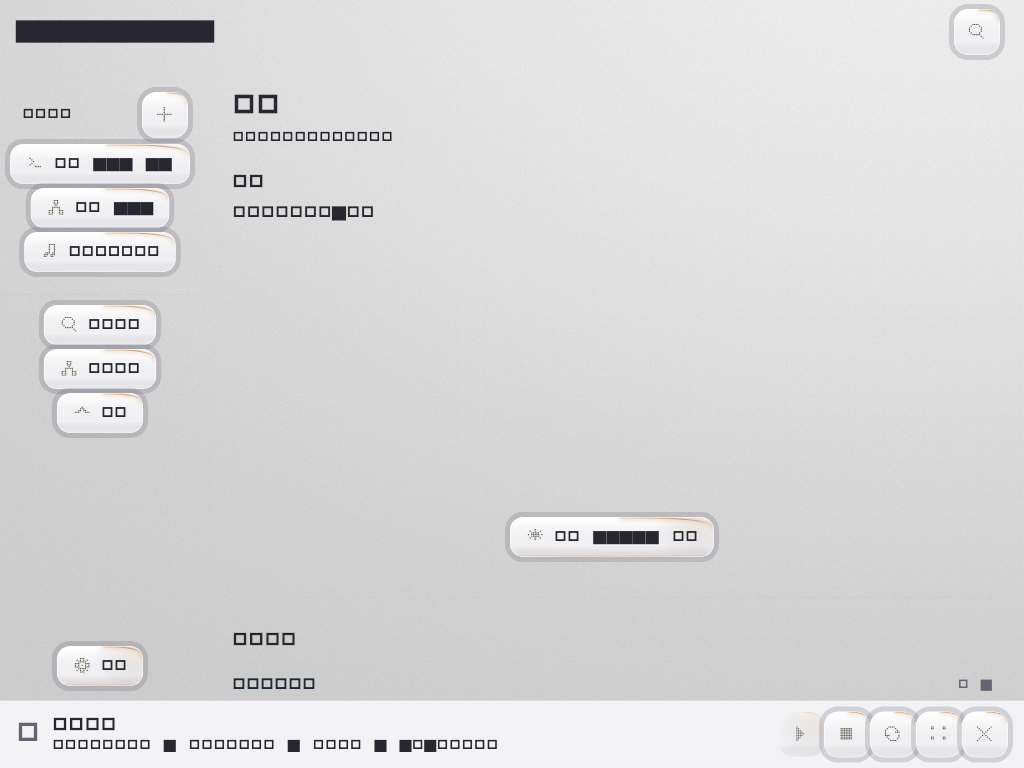
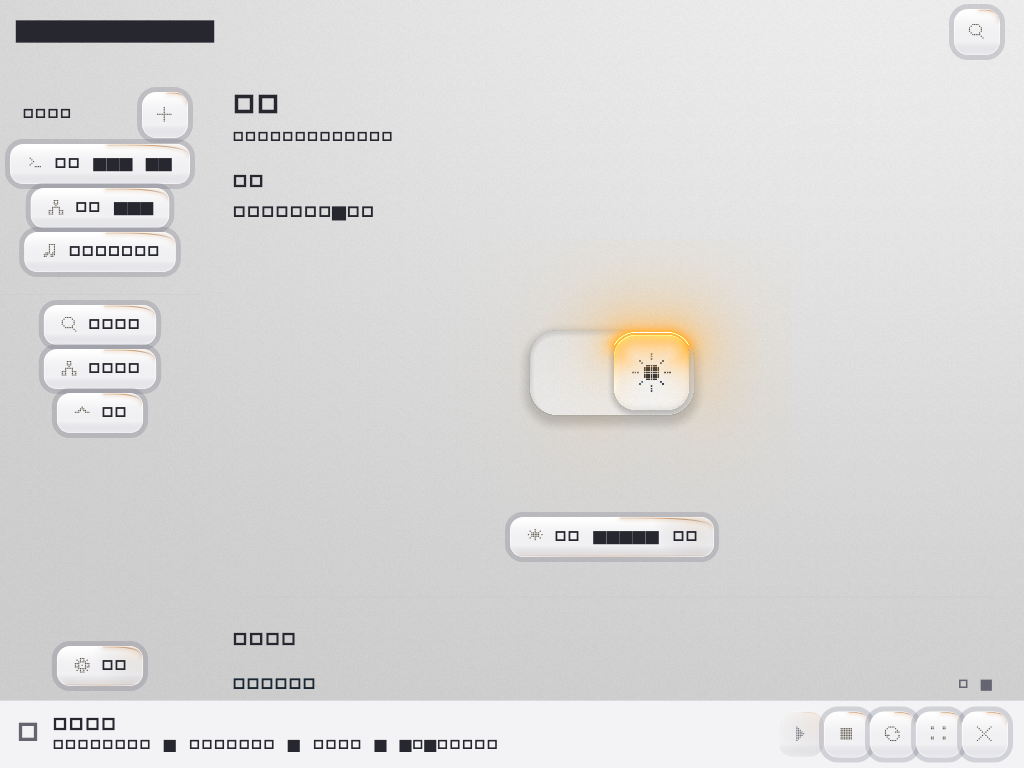
修复短列表布局并稳定 UI 金样

Changed region(s): [[0.5, 0.375, 0.7188, 0.5625]]

diff --git a/app/lib/features/connections/connections_page.dart b/app/lib/features/connections/connections_page.dart
@@ -36,6 +36,8 @@ class ConnectionsPage extends StatefulWidget {
 }
 
 class ConnectionsPageState extends State<ConnectionsPage> {
+  static const _lazyListThreshold = 40;
+
   late Future<List<Connection>> pending;
   List<Capability> catalog = [];
   String? selectedId;
@@ -383,7 +385,7 @@ class ConnectionsPageState extends State<ConnectionsPage> {
           ),
           const SizedBox(height: 8),
           if (capabilities.isEmpty) const Text('当前没有可用功能。刷新连接后重试。'),
-          if (capabilities.isNotEmpty)
+          if (capabilities.length >= _lazyListThreshold)
             SizedBox(
               key: const Key('managed-capability-list'),
               height: _capabilityListHeight(context),
@@ -403,6 +405,17 @@ class ConnectionsPageState extends State<ConnectionsPage> {
                 separatorBuilder: (context, index) => const Divider(height: 1),
               ),
             ),
+          if (capabilities.isNotEmpty &&
+              capabilities.length < _lazyListThreshold)
+            for (final capability in capabilities) ...[
+              CapabilityRow(
+                key: ValueKey('managed-capability-${capability.id.key}'),
+                capability: capability,
+                source: connection.label,
+                onOpen: () => widget.onOpen(capability),
+              ),
+              const Divider(height: 1),
+            ],
           if (!widget.runtime.isPreview) ...[
             const SizedBox(height: 20),
             Wrap(
@@ -452,66 +465,84 @@ class ConnectionsPageState extends State<ConnectionsPage> {
     BuildContext context,
     List<Connection> connections,
     Connection? selected,
-  ) => SizedBox(
-    key: const Key('managed-connection-list'),
-    height: _connectionListHeight(context),
-    child: ListView.separated(
-      primary: false,
-      padding: EdgeInsets.zero,
-      itemCount: connections.length,
-      itemBuilder: (context, index) {
-        final connection = connections[index];
-        final row = _usesGlassButtons(context)
-            ? AggregateActionButton(
-                label: connection.label,
-                description: _kind(connection.kind),
-                source: widget.runtime.isPreview
-                    ? '预览'
-                    : _status(connection.status),
-                semanticsLabel:
-                    '${connection.label}，${_kind(connection.kind)}，'
-                    '${widget.runtime.isPreview ? '预览' : _status(connection.status)}',
-                icon: switch (connection.kind) {
-                  ConnectionKind.cli => Icons.terminal_outlined,
-                  ConnectionKind.mcpStdio ||
-                  ConnectionKind.mcpHttp => Icons.hub_outlined,
-                },
-                style: AggregateActionStyle.quiet,
-                onPressed: () =>
-                    setState(() => selectedId = connection.id.value),
-                selected: selected?.id.value == connection.id.value,
-                expand: true,
-              )
-            : ListTile(
-                contentPadding: const EdgeInsets.symmetric(horizontal: 8),
-                selected: selected?.id.value == connection.id.value,
-                title: Tooltip(
-                  message: connection.label,
-                  child: Text(
-                    connection.label,
-                    maxLines: 1,
-                    overflow: TextOverflow.ellipsis,
-                  ),
-                ),
-                subtitle: Text(_kind(connection.kind)),
-                trailing: Text(
-                  widget.runtime.isPreview ? '预览' : _status(connection.status),
-                  style: TextStyle(
-                    color: connection.status == ConnectionStatus.unavailable
-                        ? Theme.of(context).colorScheme.error
-                        : Theme.of(context).colorScheme.onSurfaceVariant,
-                  ),
-                ),
-                onTap: () => setState(() => selectedId = connection.id.value),
-              );
-        return KeyedSubtree(
-          key: ValueKey('managed-connection-${connection.id.value}'),
-          child: row,
-        );
-      },
-      separatorBuilder: (context, index) => const Divider(height: 1),
-    ),
-  );
+  ) {
+    if (connections.length < _lazyListThreshold) {
+      return Column(
+        children: [
+          for (final connection in connections) ...[
+            _connectionRow(context, connection, selected),
+            const Divider(height: 1),
+          ],
+        ],
+      );
+    }
+
+    return SizedBox(
+      key: const Key('managed-connection-list'),
+      height: _connectionListHeight(context),
+      child: ListView.separated(
+        primary: false,
+        padding: EdgeInsets.zero,
+        itemCount: connections.length,
+        itemBuilder: (context, index) =>
+            _connectionRow(context, connections[index], selected),
+        separatorBuilder: (context, index) => const Divider(height: 1),
+      ),
+    );
+  }
+
+  Widget _connectionRow(
+    BuildContext context,
+    Connection connection,
+    Connection? selected,
+  ) {
+    final row = _usesGlassButtons(context)
+        ? AggregateActionButton(
+            label: connection.label,
+            description: _kind(connection.kind),
+            source: widget.runtime.isPreview
+                ? '预览'
+                : _status(connection.status),
+            semanticsLabel:
+                '${connection.label}，${_kind(connection.kind)}，'
+                '${widget.runtime.isPreview ? '预览' : _status(connection.status)}',
+            icon: switch (connection.kind) {
+              ConnectionKind.cli => Icons.terminal_outlined,
+              ConnectionKind.mcpStdio ||
+              ConnectionKind.mcpHttp => Icons.hub_outlined,
+            },
+            style: AggregateActionStyle.quiet,
+            onPressed: () => setState(() => selectedId = connection.id.value),
+            selected: selected?.id.value == connection.id.value,
+            expand: true,
+          )
+        : ListTile(
+            contentPadding: const EdgeInsets.symmetric(horizontal: 8),
+            selected: selected?.id.value == connection.id.value,
+            title: Tooltip(
+              message: connection.label,
+              child: Text(
+                connection.label,
+                maxLines: 1,
+                overflow: TextOverflow.ellipsis,
+              ),
+            ),
+            subtitle: Text(_kind(connection.kind)),
+            trailing: Text(
+              widget.runtime.isPreview ? '预览' : _status(connection.status),
+              style: TextStyle(
+                color: connection.status == ConnectionStatus.unavailable
+                    ? Theme.of(context).colorScheme.error
+                    : Theme.of(context).colorScheme.onSurfaceVariant,
+              ),
+            ),
+            onTap: () => setState(() => selectedId = connection.id.value),
+          );
+    return KeyedSubtree(
+      key: ValueKey('managed-connection-${connection.id.value}'),
+      child: row,
+    );
+  }
 
   double _connectionListHeight(BuildContext context) =>
       math.min(520.0, math.max(240.0, MediaQuery.sizeOf(context).height - 300));

diff --git a/app/test/connections_page_lazy_test.dart b/app/test/connections_page_lazy_test.dart
@@ -65,6 +65,29 @@ void main() {
     expect(tester.takeException(), isNull);
   }, variant: _macOS);
 
+  testWidgets('short connection and capability lists keep natural height', (
+    tester,
+  ) async {
+    tester.view.physicalSize = const Size(1024, 768);
+    tester.view.devicePixelRatio = 1;
+    addTearDown(tester.view.resetPhysicalSize);
+    addTearDown(tester.view.resetDevicePixelRatio);
+    final runtime = _runtime(
+      connections: const [_connection0],
+      capabilities: _capabilities(1),
+    );
+    addTearDown(runtime.dispose);
+
+    await tester.pumpWidget(_page(runtime));
+    await tester.pumpAndSettle();
+
+    expect(find.byKey(const Key('managed-connection-list')), findsNothing);
+    expect(find.byKey(const Key('managed-capability-list')), findsNothing);
+    expect(find.byKey(_connectionKey(0)), findsOneWidget);
+    expect(find.byKey(_capabilityKey(0)), findsOneWidget);
+    expect(tester.takeException(), isNull);
+  }, variant: _macOS);
+
   testWidgets('connection details build long capability lists lazily', (
     tester,
   ) async {

diff --git a/app/tool/ui_review_test.dart b/app/tool/ui_review_test.dart
@@ -1,5 +1,6 @@
 import 'package:aggregate/app/aggregate_app.dart';
 import 'package:aggregate/preview/preview_runtime_factory.dart';
+import 'package:aggregate/features/settings/glass_theme_switch.dart';
 import 'package:aggregate/widgets/capability_row.dart';
 import 'package:aggregate/widgets/glass/glass_motion.dart';
 import 'package:flutter/foundation.dart';
@@ -8,6 +9,8 @@ import 'package:flutter_test/flutter_test.dart';
 
 void main() {
   const boundaryKey = Key('ui-review-boundary');
+  TestWidgetsFlutterBinding.ensureInitialized();
+  setUpAll(ThemeSwitchArtwork.loadProgram);
 
   Future<void> capture(
     WidgetTester tester,

diff --git a/docs/macos-glass-ui/acceptance-record.md b/docs/macos-glass-ui/acceptance-record.md
@@ -138,7 +138,7 @@ flutter test --no-pub test/glass_theme_switch_test.dart test/theme_switch_simula
 | 项目 | UI-5.1～UI-5.8 |
 | 结果 | 自动化、键盘、语义、参数保护、reduced motion、放大文字与两种 DPR 的页面布局回归通过。主题开关焦点边框现由 Widget 回归确认绘制在 artwork 前景。UI-5.7 的系统 VoiceOver 语音走查未完成；不以自动化结果代替这些证据。 |
 | 环境 | MacBook Pro，Apple M5 Pro，24 GB；macOS 27.2；Flutter 3.47.8 stable、Dart 3.13.7；Xcode 27.2；内置 Liquid Retina XDR，逻辑 1512×982 点、60 Hz、DPR 2。App 自动化运行于 Flutter test；原生 AX 树抽查使用 Profile `Aggregate.app`。 |
-| 页面矩阵 | `app/tool/ui_review_test.dart` 固定 `ManualGlassMotionClock`，以 `FakeAccessibilityFeatures(disableAnimations: true)` 固定装饰相位但保留路由动画。800×600、1024×768、1440×900 × 浅/深 × DPR 1/2 × 9 个音乐/连接/设置/目录/运行预览状态；DPR 1 用 `work/ui-review/` 的 54 张金样比对，DPR 2 同样走完整路由和布局错误检查。12 项通过。图像使用测试字体，中文字符可能呈方框，仅用于结构与路由回归；不能作为中文字体验收。原生 Profile 窗口已目视确认中文可读，但 CUA 截图未导出归档。 |
+| 页面矩阵 | `app/tool/ui_review_test.dart` 固定 `ManualGlassMotionClock`，以 `FakeAccessibilityFeatures(disableAnimations: true)` 固定装饰相位但保留路由动画；在 `setUpAll` 预加载主题开关 shader，使六个测试用例共享已完成的加载 Future，不在各自的异步测试区内等待。800×600、1024×768、1440×900 × 浅/深 × DPR 1/2 × 9 个音乐/连接/设置/目录/运行预览状态；DPR 1 用 `work/ui-review/` 的 54 张金样比对，DPR 2 同样走完整路由和布局错误检查。12 项通过。2026-11-17 按实际 shader 渲染更新了 5 张设置页金样；第六张 800×600 浅色设置金样本次已与稳定截图一致，无需改动。逐张检查六种设置页尺寸/主题后，主题控件均正常显示。图像使用测试字体，中文字符可能呈方框，仅用于结构与路由回归；不能作为中文字体验收。原生 Profile 窗口已目视确认中文可读，但 CUA 截图未导出归档。 |
 | 组件覆盖 | `glass_action_button_test.dart` 检查所有点阵在浅/深主题和 DPR 1/2 的绘制、200% 文字操作、Enter 激活、Tab/Shift-Tab 顺序和回调次数。完整 UI-2 glyph golden 仍在原阶段验证；UI-5 的整页面金样没有 DPR 2。`accessibility_test.dart` 以 token 组合覆盖浅深材质端点的文字/图形目标；不含 shader 像素读回。 |
 | 键盘与安全 | `widget_test.dart`、`capability_run_page_test.dart`、`glass_action_button_test.dart` 验证 ⌘K 搜索焦点、⌘↵打开确认但不执行背景任务、显式确认一次、Esc 取消并恢复输入焦点、Enter 激活一次及 Tab 顺序；相关断言通过。 |
 | 原生语义 | Profile 原生 AX 树确认设置主题按钮值、搜索入口、导航项、音乐控制、清空操作和 Mac Host 控件的可读名称/状态。未启用系统 VoiceOver，也未听取或记录 VoiceOver 实际朗读顺序。 |
@@ -156,7 +156,7 @@ flutter test --no-pub test/glass_theme_switch_test.dart test/theme_switch_simula
 | 结果 | 已测的浅/深色静置、刷新/复制/添加、播放控制和 800/1024/1440/1512 logical px 固定宽度滚动交互子场景，各自三轮活动窗的 build/raster P95 均低于 16.667 ms，超预算比例低于 1%。本轮修复页面栈在窗口尺寸变化时被重复创建的问题；24 个 CLI 样本连接下，800↔1440 logical px 原生连续缩放完成三轮，build/raster P95 均低于 13.9/9.9 ms，超预算比例均低于 0.3%。宽度场景未见 >100 ms build/raster 帧；一次隐藏恢复样本出现 102.132 ms raster，重复轮为 24.851 ms。主题开关在 1024 宽另完成三轮、每轮 18 次深浅端点往返拖动，AX 值逐次交替且帧时达标；UI-0 同机端点点击基线也完成三轮，帧时数据已对照。另完成 20 轮页面往返与 RSS 时间序列。本轮新增活动页惰性列表，并完成工作台、连接、活动、设置四页与连续窗口缩放联合负载三轮；build/raster 帧时均达门槛。随后对七个长列表/表单场景各做三轮 Profile 滚动，六类场景无 >100 ms 帧；90 字段表单首组三轮中一轮出现 112.742 ms build 峰值，三轮补充滚动未复现，仍作为未定位的间歇性异常保留，未标通过。原生拖动取消对照、生命周期对象审计及动态关键帧对照仍待完成；生产页面双主题静态截图已由代理按本轮范围自验，但未逐项检查全部产品按钮实例和动态状态，因此 UI-6 保持部分验收。 |
 | 环境 | MacBook Pro Apple M5 Pro、24 GB；macOS 27.2；Flutter 3.47.8 stable、Dart 3.13.7、Xcode 27.2；内置 Liquid Retina XDR，1512×982 logical px、60 Hz、DPR 2。既有窗口样本为 800 与 1512 logical px；本轮另测 1024×632 和 1440×632 logical px 固定窗口。1440 宽实际 NSWindow frame 由临时原生诊断日志确认；诊断代码已恢复，未保留在提交中。 |
 | 运行方式 | 临时 `lib/ui6_profile_main.dart` 启动生产 `AggregateApp`，运行时由 `Ui6ProfileRuntime` 返回合成数据：24 个 CLI 连接、1 个 MCP 连接、1 个本地音乐样本连接、90 个 CLI 能力、60 个 MCP 工具、2 个音乐能力和 60 条活动记录；不启动外部进程、不访问网络、不触达真实连接、账号或 Host。窗口扫宽使用临时 Runner frame 注入，测试后恢复 `MainFlutterWindow.swift`；临时入口、Runtime 和原生诊断均未提交。 |
-| 回归检查 | 首轮活动页/工作台子阶段全量 `flutter test --no-pub` 274 项通过；2026-11-15 后续连接首页与管理连接惰性列表变更后全量 279 项通过，音乐搜索长列表加入后 281 项通过，运行参数表单加入后 282 项通过；主题 450 ms 实时指针及取消恢复用例后全量 284 项通过；焦点环前景层回归后全量 285 项通过，`flutter analyze --no-pub` 无问题。活动页惰性构建回归曾在旧实现上失败（屏外第 60 条已构建），改后通过；连接首页 90 项桌面/紧凑目录、管理连接页 90 个连接/能力的桌面/紧凑滚动回归均通过；音乐搜索 90 首桌面/紧凑宽度滚动和对应播放回调、原有短结果无障碍语义回归均通过；参数表单 90 字段回归覆盖屏外必填校验、滚动后行内提示和最终参数值。主题焦点测试将 `FocusManager` 固定为传统键盘焦点模式，确认焦点边框存在并置于绘制前景；未采集更新后的原生焦点图像。Widget 回归仅证明构建边界、行为和可达性；新增长列表场景的帧时见下方原生 Profile 记录。 |
+| 回归检查 | 首轮活动页/工作台子阶段全量 `flutter test --no-pub` 274 项通过；2026-11-15 后续连接首页与管理连接惰性列表变更后全量 279 项通过，音乐搜索长列表加入后 281 项通过，运行参数表单加入后 282 项通过；主题 450 ms 实时指针及取消恢复用例后全量 284 项通过；焦点环前景层回归后全量 285 项通过。2026-11-17 修复管理连接短列表布局及 UI review shader 预载后，全量 `flutter test --no-pub test` 289 项通过，`flutter test --no-pub tool/ui_review_test.dart` 12 项通过，`flutter test --no-pub test/connections_page_lazy_test.dart` 4 项通过，`flutter analyze --no-pub` 无问题。活动页惰性构建回归曾在旧实现上失败（屏外第 60 条已构建），改后通过；连接首页 90 项桌面/紧凑目录、管理连接页 90 个连接/能力的桌面/紧凑滚动回归均通过；2026-11-17 新增 1 个连接/1 个能力的自然高度回归，原有 90 项懒构建仍通过；音乐搜索 90 首桌面/紧凑宽度滚动和对应播放回调、原有短结果无障碍语义回归均通过；参数表单 90 字段回归覆盖屏外必填校验、滚动后行内提示和最终参数值。主题焦点测试将 `FocusManager` 固定为传统键盘焦点模式，确认焦点边框存在并置于绘制前景；未采集更新后的原生焦点图像。Widget 回归仅证明构建边界、行为和可达性；新增长列表场景的帧时见下方原生 Profile 记录。 |
 | 采样 | `app/tool/sample_theme_switch_frames.cjs` 监听既有 Mac Profile VM `Flutter.Frame` 事件；没有更改 Profile flags。帧时轮次录 40 秒，按首帧后的 5–35 秒选取 30 秒活动窗。1024/1440 结果逐轮列于下方；1440 滚动第三轮在 29.783 秒活动窗内记录 932 帧，其他宽度滚动轮次约 1,795–1,800 帧；主题拖动三轮均为 1,800 帧。隐藏恢复轮次记录约 12.9 秒无帧空档。七类长列表/表单在临时 worktree（被测源码基线 `7d28c476ec4094784c39053c303c0abe7d29bb8b`）的 Profile `PreviewRuntime` 夹具中另采三轮：每轮录 40 秒、首帧后 5–35 秒活动窗，主动滚动约 30 秒；其中参数表单一轮只有 1,502 个活动窗帧，另两轮各 1,800。夹具用本地合成数据，不接服务；原始 JSON 保存在本机 `/tmp/aggregate-ui6-schema-profile/`（权限 0600，不随提交）。JSON `protocolErrors=0` 且未断连。指标是 Flutter build/raster 提交帧，不等于显示器实际呈现 FPS；临时 VM URI 不归档。 |
 | 负载 | 静置样本覆盖完整工作台的 12 类按钮及浅/深色，各三轮。浅色刷新、复制、添加分别三轮。播放/暂停、上一首/下一首、停止与切页循环三轮，每轮约 31.6–31.8 秒、5 组循环/31 次按钮动作，以本地 Preview 数据运行。原有滚动/缩放三轮在 800↔1512 logical px 之间操作；本轮另以 1024、1440 固定窗口各做三轮、约 30 秒目录长列表往返滚动，穿插设置/管理连接/活动/音乐页切换。另以独立 Profile 夹具分别滚动工作台 92 项、连接首页单连接 91 项能力、管理连接 90 个连接、管理连接明细 91 项能力、活动 60 条、音乐结果 90 首和运行参数表单 90 字段。原有 800 宽主题端点切换三轮各 26 次；1024 宽另做三轮每轮 18 次端点往返拖动，AX 深浅状态逐次交替，当时未能通过 CUA 控制精确手势时长，也未执行拖动取消。2026-11-15 以只读 CGEvent tap 实测：`agent-desktop --duration 450` 两向移动跨度为 524.0/517.9 ms；`--duration 397` 六次交替拖动（每向三次）跨度 455.4–466.1 ms、均值 460.8 ms，且六次 AX 端点逐次符合预期。原生取消仍未执行。修复后联合负载每轮在 800↔1440 logical px 扫宽时往返滚动工作台、管理连接、活动、设置四页 40–44 个 down/up scroll pair；每页每轮至少两次 AX 路由校验。 |
 | 活动窗统计 | 以下 build/raster 数值单位均为 ms，格式为 P50/P95/P99/max；“超预算帧”按任一线程 >16.667 ms 计数。每轮分别统计，未以长 idle 稀释 30 秒活动窗。 |
@@ -327,3 +327,11 @@ UI-0～UI-5 已按阶段独立提交；未通过的对比度与 VoiceOver 项仍
 - 覆盖：按钮 reduced-motion 点击可用性、完全离屏后共享时钟注销、`TickerMode` 与应用生命周期暂停/恢复、按钮 200% 文字/键盘操作，以及切换 450 ms 实时拖动释放提交、反向拖动和 pointer cancel 恢复端点；实时模型另覆盖 20/30/60/120 Hz 与长隐藏间隔。
 - 证据范围：这是 Flutter test 下的组件/模型回归，不是原生 macOS 窗口验收。它不证明 AppKit 离屏/减少动态效果集成、原生 `PointerCancelEvent`、屏幕捕获相位、显示器实际呈现帧率或 VoiceOver 语音；UI-6.4、UI-6.8 与最终签收仍为部分验收。
 - 自检：四个测试文件完整运行并显示 `All tests passed!`；本轮没有启动、聚焦或注入输入到应用窗口，没有修改主题切换生产逻辑。当前工作树其他未提交项（`docs/android-a3-runtime-research.md`、`docs/android-a4-npm-install-research.md`、`docs/android-adaptation-plan.md`、`pubspec.lock`）不属于本次改动，保留原样。
+
+### 2026-11-17 UI review 稳定性与短列表布局回归
+
+- 根因：连接页 UI 金样最初在单个预览能力时出现大面积差异。`connections_page.dart` 为 1 项内容预留了有界列表高度，空白向下挤压设置/详情内容；将单连接/单能力降到自然高度后，单项显示恢复，40 项以上仍用有界惰性列表。
+- 金样稳定性：设置截图有时在 `ThemeSwitchArtwork` 的 fragment shader 加载完成前捕获，太阳/月亮缺失，随后测试又呈现完整光效。测试套件改为 `setUpAll` 预加载 shader，避免在每个 `testWidgets` 的异步测试区等待同一个 Future；第二个尺寸/主题用例不再卡住。按稳定渲染重录 5 张设置页金样，另外 1 张浅色 800×600 金样与稳定截图一致。六张 PNG 均已逐张目视检查。
+- 改动：连接数或能力数小于 40 时保留自然展开的 `Column`；达到 40 项继续使用 `ListView.builder`/`ListView.separated`。抽出共用连接行 builder，选择回调、状态和业务逻辑未改。新回归覆盖 1 连接、1 能力，既有 90 项懒构建用例保留。
+- 验证：完整 UI review `12` 项通过，包含 DPR 1 的 `54` 个金样断言和 DPR 2 的完整导航/布局检查；连接懒构建专项 `4` 项通过；App 全量 `289` 项通过；`flutter analyze --no-pub` 无问题。金样文字使用 Flutter 测试字体，中文方框仍不作为文字可读性验收。
+- 边界：没有启动或聚焦应用窗口，没有鼠标注入；没有修改主题模拟/校准、太阳/月亮切换、偏好映射或回调。图像是 Flutter test 截图，不替代 Profile 原生窗口、动态逐帧、VoiceOver 或 UI-6 最终验收；UI-6 仍部分通过。
